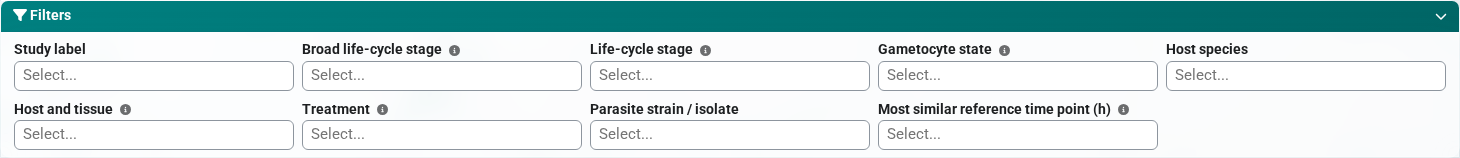
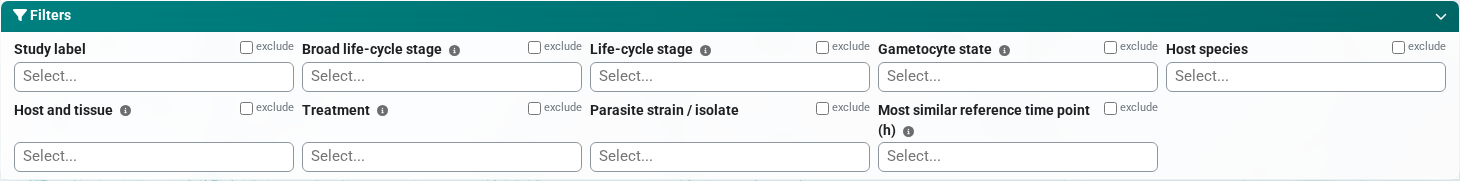
Filters: an "exclude" switch per filter
With the switch on, the selected values are left out instead of kept, so
all studies but one is a single selection. The excluded values are shown
struck through in red. The switch is shared by the tabs like the
selection, the Embeddings data cache tells the two apart, and the
broad/detailed stage coupling works on the effective selection (e.g.
excluding Blood stage offers only the sporozoite and liver stages).
Tests and manual follow.

diff --git a/manual/docs/build/html/searchindex.js b/manual/docs/build/html/searchindex.js
@@ -1,1 +1,1 @@
-Search.setIndex({"alltitles":{"1. Clone the Repository":[[1,"clone-the-repository"]],"2. Install Dependencies":[[1,"install-dependencies"]],"3. Prepare the Data":[[1,"prepare-the-data"]],"4. Run the Application":[[1,"run-the-application"]],"About":[[2,"about"]],"Best Practices":[[2,"best-practices"]],"Contact":[[1,"contact"],[2,"contact"]],"Contents":[[0,null]],"Data Processing Pipeline":[[2,"data-processing-pipeline"]],"Data Sources":[[2,"data-sources"]],"Data table":[[2,"data-table"]],"Embeddings":[[2,"embeddings"]],"Environment Snapshot (current)":[[1,"environment-snapshot-current"]],"Gene Expression":[[2,"gene-expression"]],"Installation Steps":[[1,"installation-steps"]],"Notes for macOS":[[1,"notes-for-macos"]],"Option A: Using the helper script (Linux/macOS \u2014 Recommended)":[[1,"option-a-using-the-helper-script-linux-macos-recommended"]],"Option B: Using RStudio (Desktop)":[[1,"option-b-using-rstudio-desktop"]],"Option C: From the terminal (R command)":[[1,"option-c-from-the-terminal-r-command"]],"Overview of PlaViSca Features":[[2,"overview-of-plavisca-features"]],"Plots":[[2,"plots"]],"QC Plots":[[2,"qc-plots"]],"Setup Guide":[[1,null]],"Source Code":[[1,"source-code"]],"System Requirements":[[1,"system-requirements"]],"Troubleshooting":[[1,"troubleshooting"]],"User Manual":[[2,null]],"Welcome to PlaViSca":[[0,null]]},"docnames":["index","setup_guide","user_manual"],"envversion":{"sphinx":66,"sphinx.domains.c":3,"sphinx.domains.changeset":1,"sphinx.domains.citation":1,"sphinx.domains.cpp":9,"sphinx.domains.index":1,"sphinx.domains.javascript":3,"sphinx.domains.math":2,"sphinx.domains.python":4,"sphinx.domains.rst":2,"sphinx.domains.std":2},"filenames":["index.rst","setup_guide.md","user_manual.md"],"indexentries":{},"objects":{},"objnames":{},"objtypes":{},"terms":{"2d":2,"3d":2,"A":2,"AND":2,"About":0,"All":[1,2],"At":1,"BY":1,"Below":2,"Each":2,"For":[1,2],"I":1,"If":1,"It":[0,2],"Most":2,"No":2,"OR":2,"On":1,"The":[1,2],"Their":1,"Then":1,"These":1,"This":[0,1,2],"To":[1,2],"What":2,"With":2,"abov":[1,2],"access":2,"across":2,"activ":[1,2],"add":[1,2],"addit":1,"address":1,"ai":2,"al":2,"allow":2,"also":2,"analysi":[0,2],"ani":[1,2],"anim":2,"annot":2,"anoth":1,"anthoni":[1,2],"app":[1,2],"app_data":1,"appear":2,"appl":1,"appli":2,"applic":[0,2],"appropri":2,"apt":1,"arm":2,"arrow":2,"artifici":1,"asn1_bit_str":1,"aspect":2,"assess":2,"assist":[1,2],"attribut":[1,2],"author":[1,2],"auto":1,"automat":1,"avail":[1,2],"averag":2,"axe":2,"b":2,"background":2,"baia":[1,2],"bar":2,"bash":1,"befor":[1,2],"best":0,"bioinformat":[1,2],"biolog":2,"biomed":[1,2],"blood":2,"box":2,"brew":1,"bring":2,"broad":2,"browser":[1,2],"bslib":1,"bug":2,"build":1,"builder":2,"built":1,"button":[1,2],"cach":1,"call":[1,2],"cambodg":[1,2],"can":[1,2],"capabl":2,"cc":1,"cd":1,"cell":[0,1,2],"centr":2,"chang":2,"charact":1,"chart":2,"check":[1,2],"chmod":1,"choos":2,"chosen":2,"citat":2,"classifi":2,"cleaned_dataset":1,"clear":1,"click":[1,2],"clinic":2,"clone":0,"close":1,"cluster":2,"code":[0,2],"cog":2,"collabor":1,"colleg":[1,2],"color":2,"colour":2,"column":[1,2],"com":1,"come":2,"common":[1,2],"communiti":0,"compar":2,"comparison":2,"compat":[1,2],"compil":1,"complex":0,"compon":2,"composit":2,"comprehens":2,"conclus":2,"conda":1,"condit":2,"config":1,"configur":1,"conflict":1,"const":1,"contact":0,"contain":[1,2],"contributor":[1,2],"control":2,"copi":1,"core":1,"corner":[1,2],"correspond":1,"count":[1,2],"cours":2,"cover":0,"cpu":1,"crash":1,"creat":1,"creativ":1,"credit":2,"cross":2,"csv":[1,2],"curl":1,"current":[0,2],"customiz":2,"cycl":[1,2],"data":0,"data_column":1,"data_sourc":1,"dataset":[0,2],"day":2,"deactiv":1,"default":[1,2],"definit":1,"depart":[1,2],"depend":0,"describ":2,"descript":[1,2],"design":0,"detail":[0,2],"determin":2,"dev":1,"develop":1,"deviat":2,"dialog":2,"differ":[1,2],"dimens":2,"dimension":2,"direct":2,"directori":1,"disabl":[1,2],"disk":1,"display":[1,2],"distinct":2,"distribut":2,"divid":2,"doc":1,"document":2,"doe":2,"doi":2,"download":[1,2],"dplyr":1,"draw":2,"drug":2,"dt":1,"du":[1,2],"due":1,"dynam":2,"e":[1,2],"earli":2,"edg":2,"editor":1,"edu":[1,2],"effect":0,"elbow":2,"embed":[0,1],"empow":0,"empti":[1,2],"enabl":[1,2],"ensur":[1,2],"environ":0,"error":1,"especi":[0,1],"et":2,"everi":2,"exact":[1,2],"exampl":[1,2],"experi":2,"explor":[0,1,2],"export":[1,2],"expos":1,"express":[0,1],"extend":1,"extern":2,"facilit":2,"fail":1,"fals":1,"featur":0,"feedback":1,"femal":2,"field":2,"figur":2,"file":[1,2],"filter":2,"find":[1,2],"first":[1,2],"five":1,"fix":1,"flag":1,"flexibl":2,"florida":[1,2],"focus":2,"fold":2,"folder":1,"follow":[1,2],"fontawesom":1,"found":1,"four":2,"free":[0,1],"freeli":1,"fsu":[1,2],"full":2,"funnel":2,"g":[1,2],"gametocyt":2,"gb":1,"gene":[0,1],"gene_annot":1,"general":2,"get":[1,2],"ggonnella":[1,2],"giorgio":[1,2],"git":1,"github":[1,2],"give":2,"gland":2,"global":2,"go":1,"gonnella":[1,2],"group":2,"guid":[0,2],"guidanc":[0,2],"h":[1,2],"harmless":1,"harmoni":2,"hazzard2022":2,"head":[1,2],"headless":1,"heatmap":2,"help":[1,2],"high":2,"highlight":2,"hold":2,"homebrew":1,"host":[1,2],"hostnam":1,"hover":2,"http":1,"https":1,"hvf":2,"hypnozoit":2,"icon":2,"id":2,"identifi":1,"implement":2,"improv":1,"includ":2,"incomplet":1,"independ":2,"infect":2,"infer":2,"inform":1,"inner":2,"input":2,"inquiri":1,"insid":1,"instal":0,"institut":[1,2],"instruct":1,"integr":2,"intellig":1,"interact":[0,2],"interfac":[0,2],"internat":1,"interpret":0,"intuit":0,"involv":2,"ip":1,"ipc":[1,2],"isol":2,"issu":[1,2],"javascript":1,"journal":2,"keep":2,"key":2,"kh":[1,2],"l":2,"label":2,"later":1,"launch":1,"layout":2,"least":1,"leav":2,"left":2,"leverag":2,"lib":1,"libcurl4":1,"librari":1,"libssl":1,"libxml2":1,"licens":1,"life":[1,2],"line":1,"link":[1,2],"list":[1,2],"live":1,"liver":2,"load":1,"local":1,"localhost":1,"locat":2,"log":[1,2],"logic":2,"logo":2,"m":2,"main":0,"maintain":1,"make":1,"malaria":[0,2],"mamba":1,"manag":2,"mani":2,"manual":0,"match":1,"matric":2,"may":1,"md":1,"mean":2,"measur":2,"med":[1,2],"medicin":[1,2],"memois":1,"messag":1,"meta":2,"metadata":[1,2],"metric":2,"minim":1,"minimum":1,"miss":[1,2],"modal":2,"mode":2,"modifi":1,"multi":2,"multipl":2,"must":1,"name":[1,2],"navig":2,"ncbi":2,"need":1,"new":2,"next":2,"non":1,"none":1,"normal":2,"normalis":[1,2],"normalize_df":1,"note":2,"noth":2,"number":[1,2],"offer":2,"offici":1,"onc":2,"one":2,"onli":2,"open":[0,1,2],"openssl":1,"oper":1,"optim":2,"option":2,"org":[1,2],"organism":2,"organiz":2,"origin":2,"others":1,"otherwis":2,"outer":2,"overview":0,"p":[1,2],"p01":1,"packag":1,"page":2,"pair":2,"pan":2,"pane":1,"panel":2,"parasit":2,"particl":2,"particular":2,"pasteur":[1,2],"path":1,"pattern":2,"pca":[1,2],"pcs":2,"per":[1,2],"percentag":2,"person":2,"pick":1,"pie":2,"piec":2,"pipelin":1,"pkg_config_path":1,"pkgconfig":1,"plasmodb":2,"plasmodium":[0,2],"plavisca":1,"plavisca_data_dir":1,"pleas":1,"plot":[0,1],"plus":1,"png":2,"point":[1,2],"port":1,"post":2,"practic":0,"precis":2,"prefer":1,"prefix":1,"prepar":0,"preprocess":[1,2],"print":1,"problem":1,"professor":[1,2],"project":[1,2],"provid":[0,1,2],"public":[1,2],"publish":2,"pubm":2,"purpos":0,"qc":0,"qualiti":2,"question":[1,2],"quick":2,"r":0,"ram":1,"raw":[1,2],"raw_df":1,"rcolorbrew":1,"rds":1,"read":[1,2],"readabl":2,"readi":1,"readr":1,"reduct":2,"refer":2,"relat":2,"relev":2,"reliabl":2,"remain":2,"remov":[1,2],"renv":1,"repair":1,"repeat":1,"replac":1,"replic":2,"report":2,"repositori":0,"repres":2,"reproduc":2,"requir":0,"research":[0,2],"reserv":1,"respect":2,"restor":1,"result":[1,2],"right":[1,2],"ring":2,"rna":[0,2],"row":2,"rpath":1,"ruberto":[1,2],"run":[0,2],"run_app":1,"runapp":1,"s":[0,1,2],"salivari":2,"sampl":2,"save":2,"say":2,"scale":2,"scatter":2,"scienc":[1,2],"scrna":0,"sd":2,"search":2,"second":2,"section":2,"sector":2,"see":[1,2],"select":[1,2],"selector":2,"seq":[0,2],"sequenc":[0,2],"server":1,"set":[1,2],"setup":[0,2],"sex":2,"sh":1,"share":2,"sheet":2,"shini":[0,1],"shinycssload":1,"shinyj":1,"show":[1,2],"shown":2,"side":2,"similar":2,"simplifi":1,"singl":[0,2],"sit":2,"six":2,"size":2,"slow":1,"slower":1,"snapshot":0,"sne":2,"softwar":[0,2],"solut":1,"sourc":0,"space":1,"speci":2,"specif":1,"split":2,"sporozoit":2,"sra":2,"stack":2,"stage":[1,2],"standard":2,"starsolo":2,"start":2,"startup":1,"state":[1,2],"status":1,"stay":2,"step":0,"stop":1,"strain":2,"string":1,"stringr":1,"studi":[1,2],"subset":2,"sudo":1,"suggest":2,"summari":2,"sunburst":2,"support":2,"svg":2,"switch":2,"synchron":2,"system":0,"systemat":2,"t":2,"tab":[1,2],"tabl":[0,1],"team":[1,2],"technolog":2,"test":1,"tibbl":1,"tidyvers":1,"time":2,"tissu":2,"titl":2,"togeth":2,"toggl":2,"tool":[1,2],"toolbar":2,"tooltip":2,"top":[1,2],"total":2,"transcriptom":2,"transpar":2,"treatment":2,"tri":1,"trophozoit":2,"troubleshoot":0,"true":1,"two":[1,2],"type":[1,2],"umap":2,"unfold":2,"unintegr":2,"unit":1,"universiti":[1,2],"untick":2,"updat":[1,2],"usag":1,"use":2,"user":0,"util":[0,2],"valu":2,"variabl":[1,2],"varianc":2,"various":2,"vector":2,"verifi":2,"version":1,"via":2,"violin":2,"viridi":1,"visit":1,"visual":[0,2],"vivax":[0,1,2],"vs":2,"warn":1,"way":2,"web":[1,2],"welcom":[1,2],"whose":2,"will":1,"window":1,"within":2,"without":1,"work":[1,2],"writexl":1,"written":[1,2],"wrong":1,"x":[1,2],"xcode":1,"xlsx":2,"xml2":1,"y":2,"year":2,"yml":1,"zhu":2,"zoom":2},"titles":["Welcome to PlaViSca","Setup Guide","User Manual"],"titleterms":{"A":1,"About":2,"From":1,"applic":1,"b":1,"best":2,"c":1,"clone":1,"code":1,"command":1,"contact":[1,2],"content":0,"current":1,"data":[1,2],"depend":1,"desktop":1,"embed":2,"environ":1,"express":2,"featur":2,"gene":2,"guid":1,"helper":1,"instal":1,"linux":1,"maco":1,"manual":2,"note":1,"option":1,"overview":2,"pipelin":2,"plavisca":[0,2],"plot":2,"practic":2,"prepar":1,"process":2,"qc":2,"r":1,"recommend":1,"repositori":1,"requir":1,"rstudio":1,"run":1,"script":1,"setup":1,"snapshot":1,"sourc":[1,2],"step":1,"system":1,"tabl":2,"termin":1,"troubleshoot":1,"use":1,"user":2,"welcom":0}})
+Search.setIndex({"alltitles":{"1. Clone the Repository":[[1,"clone-the-repository"]],"2. Install Dependencies":[[1,"install-dependencies"]],"3. Prepare the Data":[[1,"prepare-the-data"]],"4. Run the Application":[[1,"run-the-application"]],"About":[[2,"about"]],"Best Practices":[[2,"best-practices"]],"Contact":[[1,"contact"],[2,"contact"]],"Contents":[[0,null]],"Data Processing Pipeline":[[2,"data-processing-pipeline"]],"Data Sources":[[2,"data-sources"]],"Data table":[[2,"data-table"]],"Embeddings":[[2,"embeddings"]],"Environment Snapshot (current)":[[1,"environment-snapshot-current"]],"Gene Expression":[[2,"gene-expression"]],"Installation Steps":[[1,"installation-steps"]],"Notes for macOS":[[1,"notes-for-macos"]],"Option A: Using the helper script (Linux/macOS \u2014 Recommended)":[[1,"option-a-using-the-helper-script-linux-macos-recommended"]],"Option B: Using RStudio (Desktop)":[[1,"option-b-using-rstudio-desktop"]],"Option C: From the terminal (R command)":[[1,"option-c-from-the-terminal-r-command"]],"Overview of PlaViSca Features":[[2,"overview-of-plavisca-features"]],"Plots":[[2,"plots"]],"QC Plots":[[2,"qc-plots"]],"Setup Guide":[[1,null]],"Source Code":[[1,"source-code"]],"System Requirements":[[1,"system-requirements"]],"Troubleshooting":[[1,"troubleshooting"]],"User Manual":[[2,null]],"Welcome to PlaViSca":[[0,null]]},"docnames":["index","setup_guide","user_manual"],"envversion":{"sphinx":66,"sphinx.domains.c":3,"sphinx.domains.changeset":1,"sphinx.domains.citation":1,"sphinx.domains.cpp":9,"sphinx.domains.index":1,"sphinx.domains.javascript":3,"sphinx.domains.math":2,"sphinx.domains.python":4,"sphinx.domains.rst":2,"sphinx.domains.std":2},"filenames":["index.rst","setup_guide.md","user_manual.md"],"indexentries":{},"objects":{},"objnames":{},"objtypes":{},"terms":{"2d":2,"3d":2,"A":2,"AND":2,"About":0,"All":[1,2],"At":1,"BY":1,"Below":2,"Each":2,"For":[1,2],"I":1,"If":1,"It":[0,2],"Most":2,"No":2,"OR":2,"On":1,"The":[1,2],"Their":1,"Then":1,"These":1,"This":[0,1,2],"To":[1,2],"What":2,"With":2,"abov":[1,2],"access":2,"across":2,"activ":[1,2],"add":[1,2],"addit":1,"address":1,"ai":2,"al":2,"allow":2,"also":2,"analysi":[0,2],"ani":[1,2],"anim":2,"annot":2,"anoth":1,"anthoni":[1,2],"app":[1,2],"app_data":1,"appear":2,"appl":1,"appli":2,"applic":[0,2],"appropri":2,"apt":1,"arm":2,"arrow":2,"artifici":1,"asn1_bit_str":1,"aspect":2,"assess":2,"assist":[1,2],"attribut":[1,2],"author":[1,2],"auto":1,"automat":1,"avail":[1,2],"averag":2,"axe":2,"b":2,"background":2,"baia":[1,2],"bar":2,"bash":1,"befor":[1,2],"best":0,"bioinformat":[1,2],"biolog":2,"biomed":[1,2],"blood":2,"box":2,"brew":1,"bring":2,"broad":2,"browser":[1,2],"bslib":1,"bug":2,"build":1,"builder":2,"built":1,"button":[1,2],"cach":1,"call":[1,2],"cambodg":[1,2],"can":[1,2],"capabl":2,"cc":1,"cd":1,"cell":[0,1,2],"centr":2,"chang":2,"charact":1,"chart":2,"check":[1,2],"chmod":1,"choos":2,"chosen":2,"citat":2,"classifi":2,"cleaned_dataset":1,"clear":1,"click":[1,2],"clinic":2,"clone":0,"close":1,"cluster":2,"code":[0,2],"cog":2,"collabor":1,"colleg":[1,2],"color":2,"colour":2,"column":[1,2],"com":1,"come":2,"common":[1,2],"communiti":0,"compar":2,"comparison":2,"compat":[1,2],"compil":1,"complex":0,"compon":2,"composit":2,"comprehens":2,"conclus":2,"conda":1,"condit":2,"config":1,"configur":1,"conflict":1,"const":1,"contact":0,"contain":[1,2],"contributor":[1,2],"control":2,"copi":1,"core":1,"corner":[1,2],"correspond":1,"count":[1,2],"cours":2,"cover":0,"cpu":1,"crash":1,"creat":1,"creativ":1,"credit":2,"cross":2,"csv":[1,2],"curl":1,"current":[0,2],"customiz":2,"cycl":[1,2],"data":0,"data_column":1,"data_sourc":1,"dataset":[0,2],"day":2,"deactiv":1,"default":[1,2],"definit":1,"depart":[1,2],"depend":0,"describ":2,"descript":[1,2],"design":0,"detail":[0,2],"determin":2,"dev":1,"develop":1,"deviat":2,"dialog":2,"differ":[1,2],"dimens":2,"dimension":2,"direct":2,"directori":1,"disabl":[1,2],"disk":1,"display":[1,2],"distinct":2,"distribut":2,"divid":2,"doc":1,"document":2,"doe":2,"doi":2,"download":[1,2],"dplyr":1,"draw":2,"drug":2,"dt":1,"du":[1,2],"due":1,"dynam":2,"e":[1,2],"earli":2,"edg":2,"editor":1,"edu":[1,2],"effect":0,"elbow":2,"embed":[0,1],"empow":0,"empti":[1,2],"enabl":[1,2],"ensur":[1,2],"environ":0,"error":1,"especi":[0,1],"et":2,"everi":2,"exact":[1,2],"exampl":[1,2],"exclud":2,"experi":2,"explor":[0,1,2],"export":[1,2],"expos":1,"express":[0,1],"extend":1,"extern":2,"facilit":2,"fail":1,"fals":1,"featur":0,"feedback":1,"femal":2,"field":2,"figur":2,"file":[1,2],"filter":2,"find":[1,2],"first":[1,2],"five":1,"fix":1,"flag":1,"flexibl":2,"florida":[1,2],"focus":2,"fold":2,"folder":1,"follow":[1,2],"fontawesom":1,"found":1,"four":2,"free":[0,1],"freeli":1,"fsu":[1,2],"full":2,"funnel":2,"g":[1,2],"gametocyt":2,"gb":1,"gene":[0,1],"gene_annot":1,"general":2,"get":[1,2],"ggonnella":[1,2],"giorgio":[1,2],"git":1,"github":[1,2],"give":2,"gland":2,"global":2,"go":1,"gonnella":[1,2],"group":2,"guid":[0,2],"guidanc":[0,2],"h":[1,2],"harmless":1,"harmoni":2,"hazzard2022":2,"head":[1,2],"headless":1,"heatmap":2,"help":[1,2],"high":2,"highlight":2,"hold":2,"homebrew":1,"host":[1,2],"hostnam":1,"hover":2,"http":1,"https":1,"hvf":2,"hypnozoit":2,"icon":2,"id":2,"identifi":1,"implement":2,"improv":1,"includ":2,"incomplet":1,"independ":2,"infect":2,"infer":2,"inform":1,"inner":2,"input":2,"inquiri":1,"insid":1,"instal":0,"instead":2,"institut":[1,2],"instruct":1,"integr":2,"intellig":1,"interact":[0,2],"interfac":[0,2],"internat":1,"interpret":0,"intuit":0,"involv":2,"ip":1,"ipc":[1,2],"isol":2,"issu":[1,2],"javascript":1,"journal":2,"keep":2,"key":2,"kh":[1,2],"l":2,"label":2,"later":1,"launch":1,"layout":2,"least":1,"leav":2,"left":2,"leverag":2,"lib":1,"libcurl4":1,"librari":1,"libssl":1,"libxml2":1,"licens":1,"life":[1,2],"line":1,"link":[1,2],"list":[1,2],"live":1,"liver":2,"load":1,"local":1,"localhost":1,"locat":2,"log":[1,2],"logic":2,"logo":2,"m":2,"main":0,"maintain":1,"make":1,"malaria":[0,2],"mamba":1,"manag":2,"mani":2,"manual":0,"match":1,"matric":2,"may":1,"md":1,"mean":2,"measur":2,"med":[1,2],"medicin":[1,2],"memois":1,"messag":1,"meta":2,"metadata":[1,2],"metric":2,"minim":1,"minimum":1,"miss":[1,2],"modal":2,"mode":2,"modifi":1,"multi":2,"multipl":2,"must":1,"name":[1,2],"navig":2,"ncbi":2,"need":1,"new":2,"next":2,"non":1,"none":1,"normal":2,"normalis":[1,2],"normalize_df":1,"note":2,"noth":2,"number":[1,2],"offer":2,"offici":1,"onc":2,"one":2,"onli":2,"open":[0,1,2],"openssl":1,"oper":1,"optim":2,"option":2,"org":[1,2],"organism":2,"organiz":2,"origin":2,"others":1,"otherwis":2,"outer":2,"overview":0,"p":[1,2],"p01":1,"packag":1,"page":2,"pair":2,"pan":2,"pane":1,"panel":2,"parasit":2,"particl":2,"particular":2,"pasteur":[1,2],"path":1,"pattern":2,"pca":[1,2],"pcs":2,"per":[1,2],"percentag":2,"person":2,"pick":1,"pie":2,"piec":2,"pipelin":1,"pkg_config_path":1,"pkgconfig":1,"plasmodb":2,"plasmodium":[0,2],"plavisca":1,"plavisca_data_dir":1,"pleas":1,"plot":[0,1],"plus":1,"png":2,"point":[1,2],"port":1,"post":2,"practic":0,"precis":2,"prefer":1,"prefix":1,"prepar":0,"preprocess":[1,2],"print":1,"problem":1,"professor":[1,2],"project":[1,2],"provid":[0,1,2],"public":[1,2],"publish":2,"pubm":2,"purpos":0,"qc":0,"qualiti":2,"question":[1,2],"quick":2,"r":0,"ram":1,"raw":[1,2],"raw_df":1,"rcolorbrew":1,"rds":1,"read":[1,2],"readabl":2,"readi":1,"readr":1,"red":2,"reduct":2,"refer":2,"relat":2,"relev":2,"reliabl":2,"remain":2,"remov":[1,2],"renv":1,"repair":1,"repeat":1,"replac":1,"replic":2,"report":2,"repositori":0,"repres":2,"reproduc":2,"requir":0,"research":[0,2],"reserv":1,"respect":2,"restor":1,"result":[1,2],"right":[1,2],"ring":2,"rna":[0,2],"row":2,"rpath":1,"ruberto":[1,2],"run":[0,2],"run_app":1,"runapp":1,"s":[0,1,2],"salivari":2,"sampl":2,"save":2,"say":2,"scale":2,"scatter":2,"scienc":[1,2],"scrna":0,"sd":2,"search":2,"second":2,"section":2,"sector":2,"see":[1,2],"select":[1,2],"selector":2,"seq":[0,2],"sequenc":[0,2],"server":1,"set":[1,2],"setup":[0,2],"sex":2,"sh":1,"share":2,"sheet":2,"shini":[0,1],"shinycssload":1,"shinyj":1,"show":[1,2],"shown":2,"side":2,"similar":2,"simplifi":1,"singl":[0,2],"sit":2,"six":2,"size":2,"slow":1,"slower":1,"snapshot":0,"sne":2,"softwar":[0,2],"solut":1,"sourc":0,"space":1,"speci":2,"specif":1,"split":2,"sporozoit":2,"sra":2,"stack":2,"stage":[1,2],"standard":2,"starsolo":2,"start":2,"startup":1,"state":[1,2],"status":1,"stay":2,"step":0,"stop":1,"strain":2,"string":1,"stringr":1,"struck":2,"studi":[1,2],"subset":2,"sudo":1,"suggest":2,"summari":2,"sunburst":2,"support":2,"svg":2,"switch":2,"synchron":2,"system":0,"systemat":2,"t":2,"tab":[1,2],"tabl":[0,1],"team":[1,2],"technolog":2,"test":1,"tibbl":1,"tick":2,"tidyvers":1,"time":2,"tissu":2,"titl":2,"togeth":2,"toggl":2,"tool":[1,2],"toolbar":2,"tooltip":2,"top":[1,2],"total":2,"transcriptom":2,"transpar":2,"treatment":2,"tri":1,"trophozoit":2,"troubleshoot":0,"true":1,"two":[1,2],"type":[1,2],"umap":2,"unfold":2,"unintegr":2,"unit":1,"universiti":[1,2],"untick":2,"updat":[1,2],"usag":1,"use":2,"user":0,"util":[0,2],"valu":2,"variabl":[1,2],"varianc":2,"various":2,"vector":2,"verifi":2,"version":1,"via":2,"violin":2,"viridi":1,"visit":1,"visual":[0,2],"vivax":[0,1,2],"vs":2,"warn":1,"way":2,"web":[1,2],"welcom":[1,2],"whose":2,"will":1,"window":1,"within":2,"without":1,"work":[1,2],"writexl":1,"written":[1,2],"wrong":1,"x":[1,2],"xcode":1,"xlsx":2,"xml2":1,"y":2,"year":2,"yml":1,"zhu":2,"zoom":2},"titles":["Welcome to PlaViSca","Setup Guide","User Manual"],"titleterms":{"A":1,"About":2,"From":1,"applic":1,"b":1,"best":2,"c":1,"clone":1,"code":1,"command":1,"contact":[1,2],"content":0,"current":1,"data":[1,2],"depend":1,"desktop":1,"embed":2,"environ":1,"express":2,"featur":2,"gene":2,"guid":1,"helper":1,"instal":1,"linux":1,"maco":1,"manual":2,"note":1,"option":1,"overview":2,"pipelin":2,"plavisca":[0,2],"plot":2,"practic":2,"prepar":1,"process":2,"qc":2,"r":1,"recommend":1,"repositori":1,"requir":1,"rstudio":1,"run":1,"script":1,"setup":1,"snapshot":1,"sourc":[1,2],"step":1,"system":1,"tabl":2,"termin":1,"troubleshoot":1,"use":1,"user":2,"welcom":0}})

diff --git a/manual/docs/build/html/user_manual.html b/manual/docs/build/html/user_manual.html
@@ -162,6 +162,7 @@
 </table>
 <p>Hover over the help icon next to a filter for its full description. Cells with a missing value are shown as “Missing”; for the gametocyte state, cells that are not gametocytes are shown as “No gametocyte”.</p>
 <p>Filters apply with <strong>OR logic within each field</strong> and <strong>AND logic between fields</strong>, allowing precise subsetting of the dataset. All tabs stay synchronized with each other’s filter selections.</p>
+<p>To leave out some values instead of keeping them, tick <strong>exclude</strong> next to the name of the filter: the selected values are then shown struck through in red, and the cells with them are left out. For example, to show all studies but one, tick <strong>exclude</strong> next to “Study label” and select that study.</p>
 <p>The <strong>Filters</strong> start folded, as a button with a funnel at the top left of the tab (above the cog of the plot settings). Click it to unfold the Filters above the plots, and click their title bar to fold them again. The number of filters set is shown on the button, or in the title, e.g. <strong>Filters (2)</strong>. Folding is shared by all tabs: folding the Filters on one tab folds them on every tab.</p>
 <p><img alt="Figure 1: the Filters box, unfolded" src="_images/filters.png" />
 <strong>Figure 1</strong>: the Filters box, unfolded</p>

diff --git a/www/style.css b/www/style.css
@@ -1315,3 +1315,51 @@ table.dataTable thead th {
 .filters-folded .plot-settings-layout .bslib-sidebar-layout.sidebar-collapsed > .main {
   padding-left: 0 !important;
 }
+
+/* Filter name with the "exclude" switch on the right; with the switch on,
+   the selected values are shown struck through in red (they are left out) */
+/* the boxes of a row stay aligned when a long name wraps */
+.filter-widget {
+  display: flex;
+  flex-direction: column;
+}
+
+.filter-widget > .shiny-input-container {
+  margin-top: auto;
+}
+
+.filter-widget .filter-head {
+  display: flex;
+  align-items: baseline;
+  gap: 6px;
+}
+
+.filter-widget .filter-head .control-label {
+  margin-bottom: 1px;
+}
+
+.filter-widget .filter-exclude {
+  margin: 0 0 0 auto;
+  display: flex;
+  align-items: center;
+  gap: 3px;
+  font-size: 0.7rem;
+  color: #6c757d;
+  cursor: pointer;
+  user-select: none;
+}
+
+.filter-widget .filter-exclude input {
+  margin: 0;
+}
+
+.filter-widget:has(.filter-exclude input:checked) .filter-exclude {
+  color: #b02a37;
+  font-weight: 700;
+}
+
+.filter-widget:has(.filter-exclude input:checked) .selectize-input .item {
+  color: #b02a37 !important;
+  background: #f8d7da !important;
+  text-decoration: line-through;
+}

diff --git a/manual/docs/source/user_manual.md b/manual/docs/source/user_manual.md
@@ -43,6 +43,8 @@ Hover over the help icon next to a filter for its full description. Cells with a
 
 Filters apply with **OR logic within each field** and **AND logic between fields**, allowing precise subsetting of the dataset. All tabs stay synchronized with each other's filter selections.
 
+To leave out some values instead of keeping them, tick **exclude** next to the name of the filter: the selected values are then shown struck through in red, and the cells with them are left out. For example, to show all studies but one, tick **exclude** next to "Study label" and select that study.
+
 The **Filters** start folded, as a button with a funnel at the top left of the tab (above the cog of the plot settings). Click it to unfold the Filters above the plots, and click their title bar to fold them again. The number of filters set is shown on the button, or in the title, e.g. **Filters (2)**. Folding is shared by all tabs: folding the Filters on one tab folds them on every tab.
 
 ![Figure 1: the Filters box, unfolded](imgs/filters.png)
